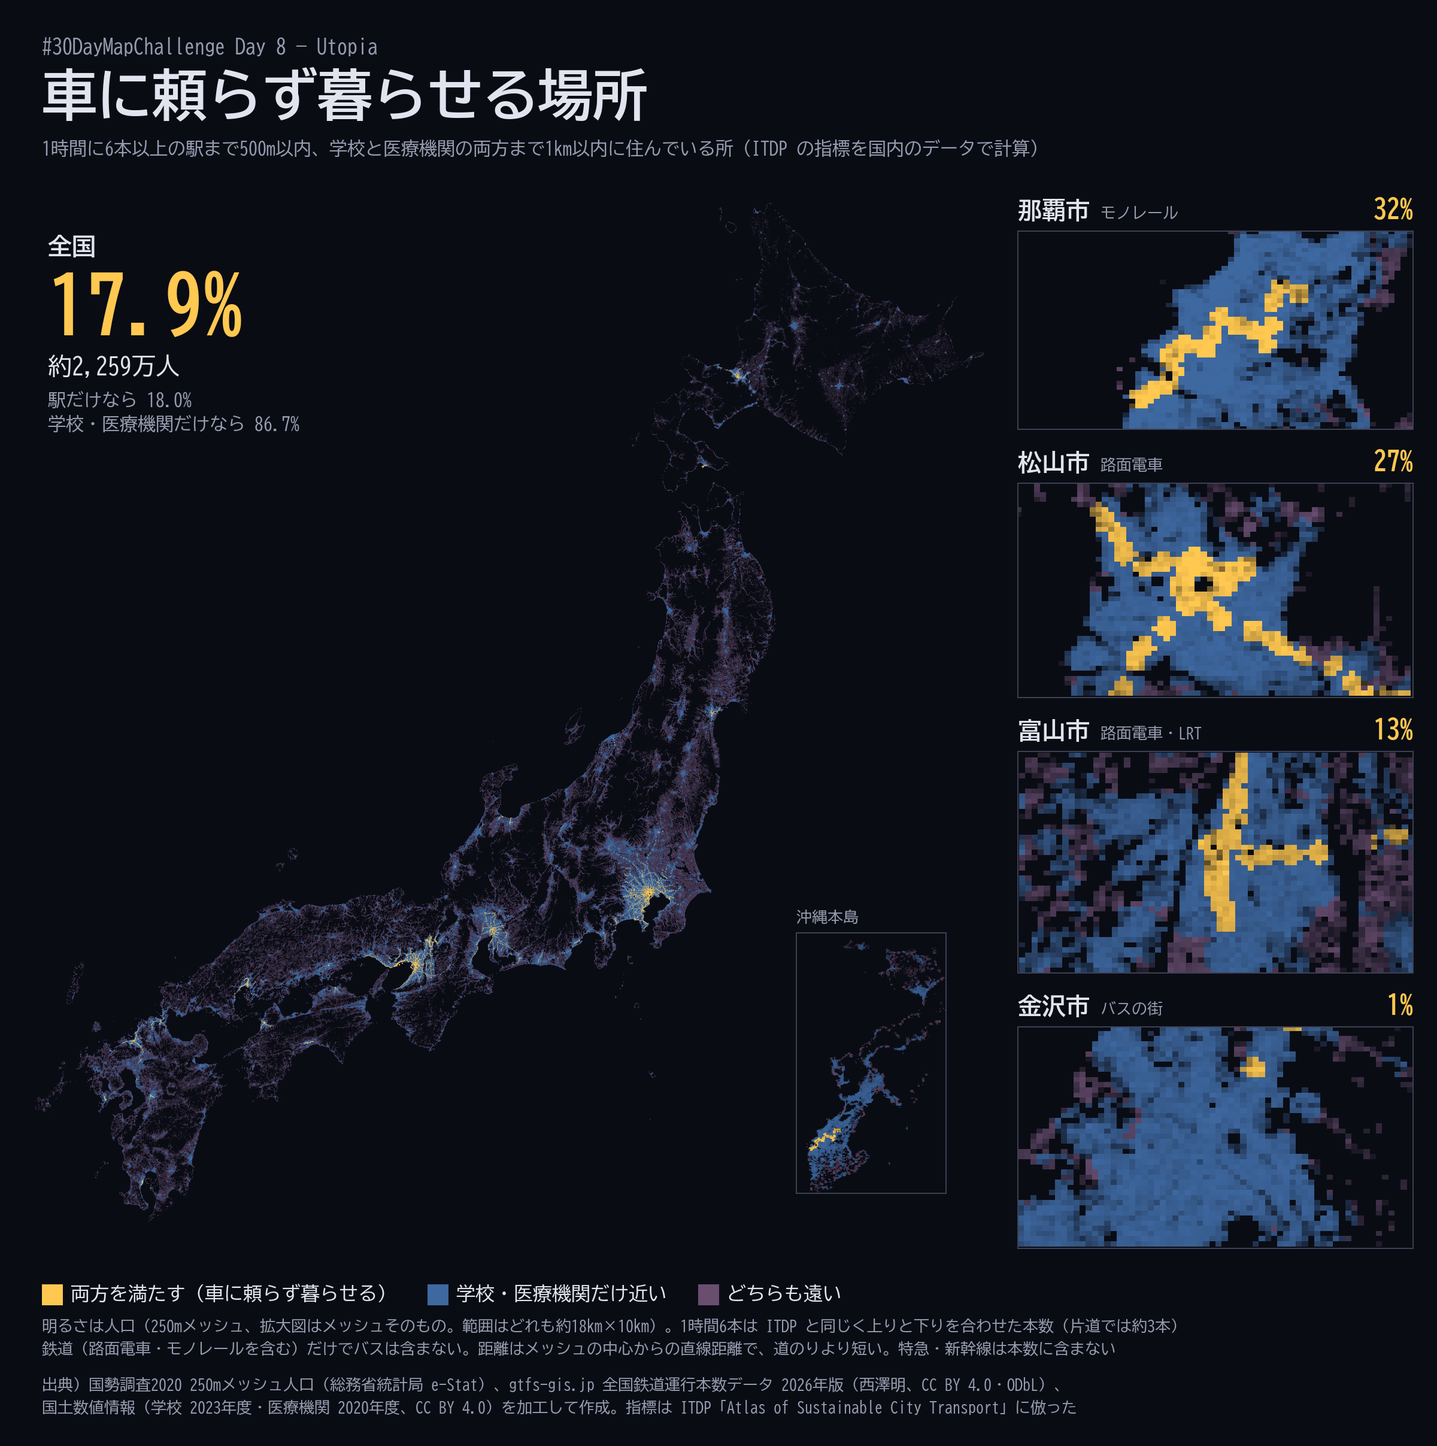
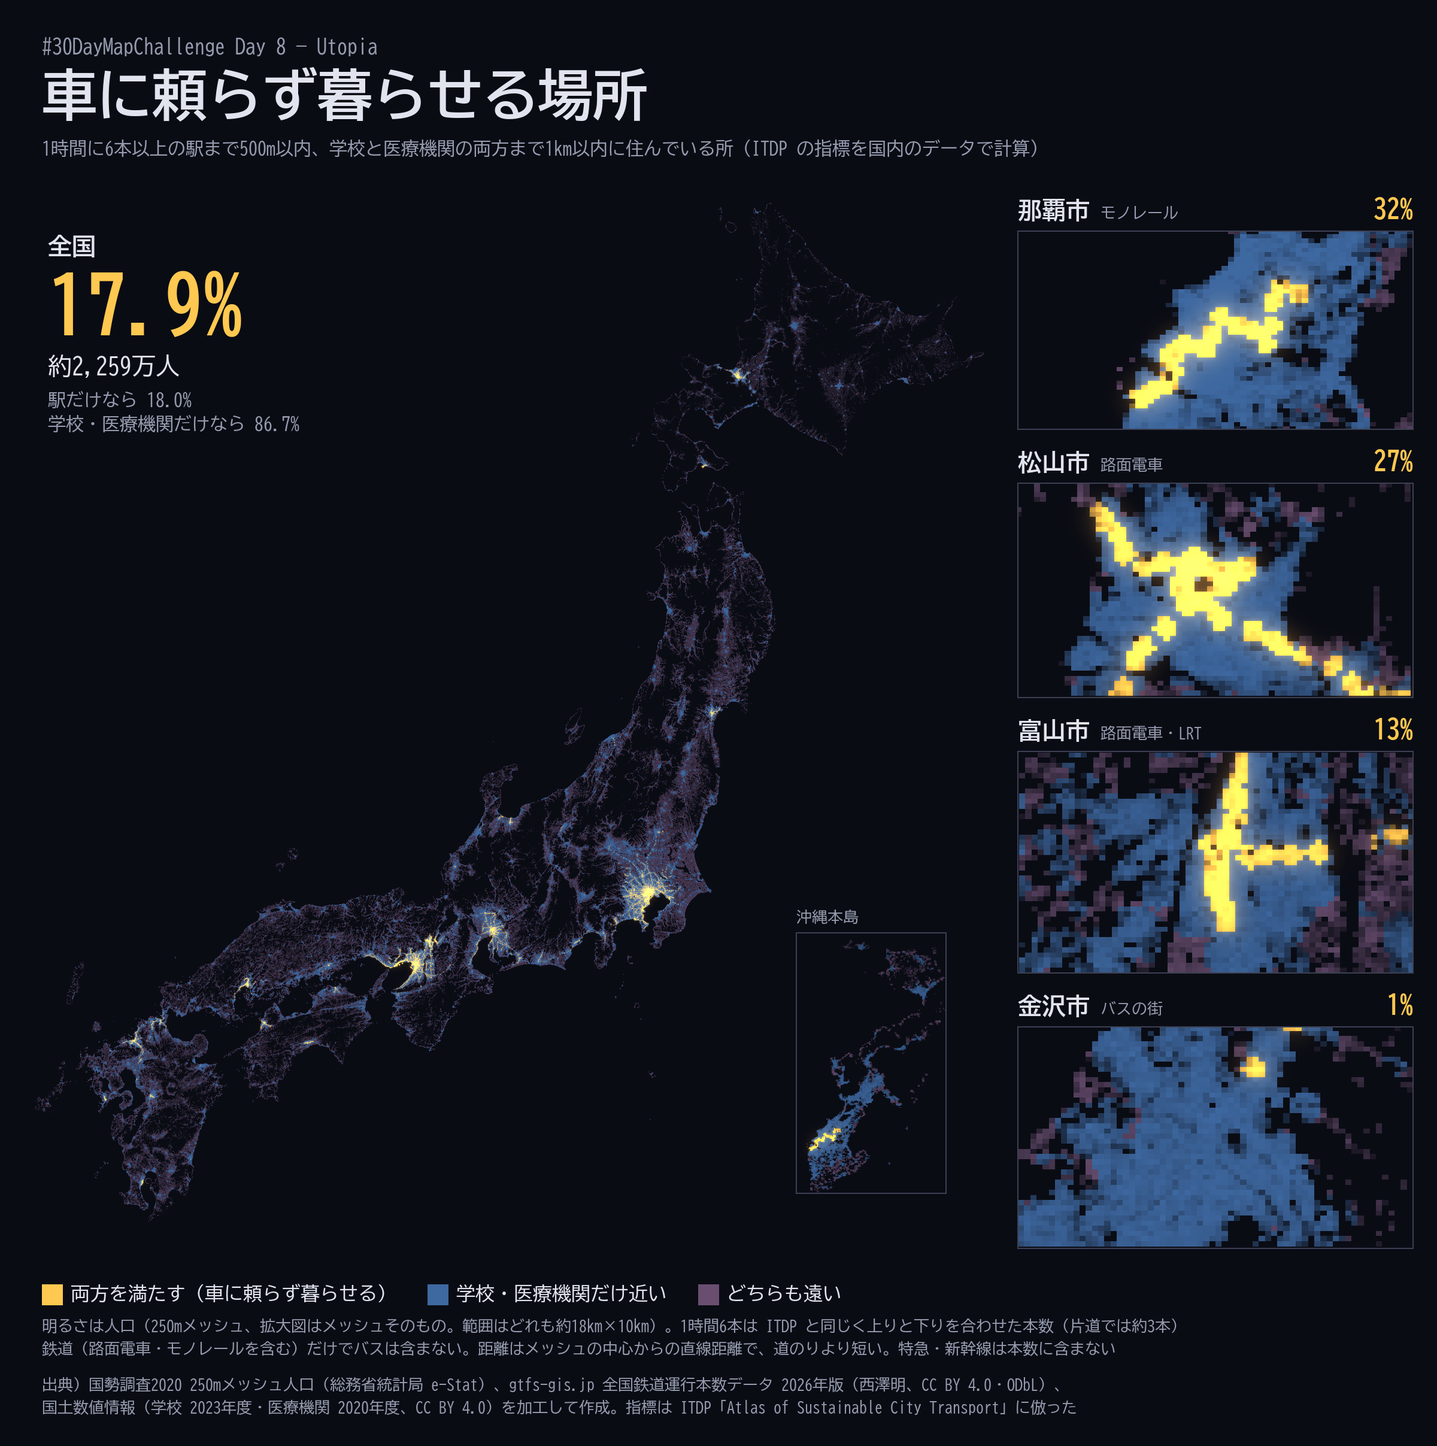
Day 8: 発光と、首都圏・中京圏・近畿圏の図（X に貼る4枚） (#58)
両方を満たす所をぼかして足し、発光させる。描画を maplib.py にまとめ、
regions.py で首都圏・中京圏・近畿圏を250mメッシュのまま塗り、主な市の割合を添える。
高解像度版は日本全域が6倍、圏域が2倍。

Claude-Session: https://claude.ai/code/session_01LQyb2EHdAuq3GUE5kxx5cM

diff --git a/day08-utopia/scripts/carfree/regions.py b/day08-utopia/scripts/carfree/regions.py
@@ -1,0 +1,111 @@
+"""投稿用: 首都圏・中京圏・近畿圏の拡大（250mメッシュをそのまま塗り、主な市の割合を添える）。
+
+使い方: python -I -X utf8 regions.py <data/carfree> <出力フォルダ> [倍率（既定1）]
+"""
+import sys
+from pathlib import Path
+
+import pandas as pd
+from PIL import Image, ImageFont
+
+sys.path.insert(0, str(Path(__file__).parent))
+from maplib import BG, C_BOTH, C_NONE, C_SERV, glow, init, render  # noqa: E402
+from scaledraw import SDraw  # noqa: E402
+
+src = Path(sys.argv[1])
+out = Path(sys.argv[2])
+out.mkdir(parents=True, exist_ok=True)
+S = int(sys.argv[3]) if len(sys.argv) > 3 else 1
+Image.MAX_IMAGE_PIXELS = None
+init(pd.read_parquet(src / "mesh_carfree.parquet"), S)
+city = pd.read_csv(src / "city_carfree.csv")
+pref = pd.read_csv(src / "pref_carfree.csv")
+
+FONT_R = "C:/Windows/Fonts/BIZ-UDGothicR.ttc"
+FONT_B = "C:/Windows/Fonts/BIZ-UDGothicB.ttc"
+
+
+def font(size, bold=False):
+    return ImageFont.truetype(FONT_B if bold else FONT_R, size * S)
+
+
+GOLD, TXT, SUB = (255, 200, 80), (225, 228, 238), (150, 156, 175)
+
+
+def share(df):
+    return (df["both"] * df["pop"]).sum() / df["pop"].sum()
+
+
+def city_share(p, names):
+    if names == "23区":
+        return share(city[(city["pref"] == p) & city["city"].str.endswith("区")])
+    return share(city[(city["pref"] == p) & (city["city"] == names)])
+
+
+# 市の位置はおよその市役所（23区は東京駅）
+REGIONS = [
+    ("shutoken", "首都圏", ["東京都", "神奈川県", "埼玉県", "千葉県"], "1都3県", (138.95, 140.75, 35.05, 36.25), [
+        ("東京都", "23区", "東京23区", 139.767, 35.681), ("神奈川県", "横浜市", "横浜市", 139.638, 35.444),
+        ("神奈川県", "川崎市", "川崎市", 139.703, 35.531), ("埼玉県", "さいたま市", "さいたま市", 139.646, 35.861),
+        ("千葉県", "千葉市", "千葉市", 140.123, 35.607), ("神奈川県", "相模原市", "相模原市", 139.373, 35.571),
+        ("東京都", "八王子市", "八王子市", 139.316, 35.666), ("千葉県", "船橋市", "船橋市", 139.983, 35.695),
+        ("埼玉県", "川越市", "川越市", 139.486, 35.925), ("神奈川県", "横須賀市", "横須賀市", 139.672, 35.281),
+    ]),
+    ("chukyo", "中京圏", ["愛知県", "岐阜県", "三重県"], "愛知・岐阜・三重", (136.40, 137.55, 34.62, 35.50), [
+        ("愛知県", "名古屋市", "名古屋市", 136.907, 35.181), ("岐阜県", "岐阜市", "岐阜市", 136.761, 35.423),
+        ("愛知県", "豊田市", "豊田市", 137.156, 35.083), ("愛知県", "岡崎市", "岡崎市", 137.174, 34.954),
+        ("愛知県", "一宮市", "一宮市", 136.803, 35.304), ("三重県", "四日市市", "四日市市", 136.624, 34.965),
+        ("三重県", "津市", "津市", 136.509, 34.719), ("愛知県", "春日井市", "春日井市", 136.972, 35.248),
+        ("愛知県", "豊橋市", "豊橋市", 137.392, 34.769),
+    ]),
+    ("kinki", "近畿圏", ["大阪府", "京都府", "兵庫県", "奈良県"], "大阪・京都・兵庫・奈良", (134.95, 136.05, 34.33, 35.10), [
+        ("大阪府", "大阪市", "大阪市", 135.502, 34.694), ("京都府", "京都市", "京都市", 135.768, 35.012),
+        ("兵庫県", "神戸市", "神戸市", 135.196, 34.690), ("大阪府", "堺市", "堺市", 135.483, 34.574),
+        ("奈良県", "奈良市", "奈良市", 135.805, 34.685), ("大阪府", "東大阪市", "東大阪市", 135.601, 34.679),
+        ("兵庫県", "西宮市", "西宮市", 135.342, 34.737), ("大阪府", "枚方市", "枚方市", 135.650, 34.814),
+        ("兵庫県", "姫路市", "姫路市", 134.686, 34.815), ("大阪府", "高槻市", "高槻市", 135.617, 34.846),
+    ]),
+]
+
+W, MW, MX = 2400, 2320, 40
+for key, name, prefs, pref_note, (a, b, c, e), cities in REGIONS:
+    arr = render(a, b, c, e, MW * S, 1500)
+    arr = glow(arr, (2, 10), (0.35, 0.5))
+    MH = arr.shape[0] // S
+    MY = 280
+    H = MY + MH + 260
+    img = Image.new("RGB", (W * S, H * S), tuple(BG.astype(int)))
+    d = SDraw(img, S)
+    img.paste(Image.fromarray(arr), (MX * S, MY * S))
+    d.text((70, 50), "#30DayMapChallenge Day 8 — Utopia ／ 車に頼らず暮らせる場所", font=font(32), fill=SUB)
+    d.text((70, 100), name, font=font(84, True), fill=TXT)
+    sh = share(pref[pref["pref"].isin(prefs)])
+    tx = 70 + d.textlength(name, font=font(84, True)) + 36
+    d.text((tx, 128), f"{pref_note}で {sh * 100:.0f}%", font=font(48, True), fill=GOLD)
+    d.text((70, 210), "1時間に6本以上の駅まで500m以内、学校と医療機関の両方まで1km以内に住んでいる所（250mメッシュ）",
+           font=font(30), fill=SUB)
+    k = __import__("math").cos(__import__("math").radians((c + e) / 2))
+    for p_, cname, label, lo, la in cities:
+        if not (a < lo < b and c < la < e):
+            continue
+        x = MX + (lo - a) / (b - a) * MW
+        y = MY + (e - la) / (e - c) * MH
+        v = city_share(p_, cname)
+        d.ellipse([x - 7, y - 7, x + 7, y + 7], fill=(255, 255, 255), outline=(10, 12, 20), width=2)
+        d.text((x + 14, y - 40), label, font=font(34, True), fill=TXT, stroke_width=5, stroke_fill=(10, 12, 20))
+        d.text((x + 14, y - 2), f"{v * 100:.0f}%", font=font(34, True), fill=GOLD, stroke_width=5, stroke_fill=(10, 12, 20))
+    ly = MY + MH + 24
+    lx = 70
+    for col, t in [(C_BOTH, "両方を満たす"), (C_SERV, "学校・医療機関だけ近い"), (C_NONE, "どちらも遠い")]:
+        d.rectangle([lx, ly + 6, lx + 30, ly + 36], fill=tuple(col.astype(int)))
+        d.text((lx + 42, ly + 4), t, font=font(30), fill=TXT)
+        lx += 42 + d.textlength(t, font=font(30)) + 50
+    d.text((lx, ly + 8), "明るさは人口。市の割合は市内に住む人のうち両方を満たす人の割合", font=font(26), fill=SUB)
+    for i, t in enumerate([
+        "鉄道（路面電車・モノレールを含む）だけでバスは含まない。1時間6本は上りと下りを合わせた本数（ITDP に倣う）。距離は直線距離",
+        "出典）国勢調査2020 250mメッシュ人口（総務省統計局 e-Stat）、gtfs-gis.jp 全国鉄道運行本数データ 2026年版（西澤明、CC BY 4.0・ODbL）、",
+        "国土数値情報（学校 2023年度・医療機関 2020年度・行政区域 2026年、CC BY 4.0）を加工して作成",
+    ]):
+        d.text((70, ly + 70 + i * 38), t, font=font(25), fill=SUB)
+    img.save(out / f"region_{key}{'' if S == 1 else f'_x{S}'}.png")
+    print(key, img.size, f"{sh:.3f}")

diff --git a/day08-utopia/scripts/carfree/poster.py b/day08-utopia/scripts/carfree/poster.py
@@ -6,7 +6,6 @@ import json
 import sys
 from pathlib import Path
 
-import numpy as np
 import pandas as pd
 from PIL import Image, ImageFont
 
@@ -29,50 +28,9 @@ def font(size, bold=False):
     return ImageFont.truetype(FONT_B if bold else FONT_R, size * S)
 
 
-BG = np.array([10, 12, 20], float)
-C_BOTH = np.array([255, 200, 80], float)
-C_SERV = np.array([62, 104, 160], float)
-C_NONE = np.array([105, 78, 112], float)
-DLON, DLAT = 1 / 320, 1 / 480
+from maplib import BG, C_BOTH, C_NONE, C_SERV, glow, init, render  # noqa: E402
 
-cat = np.where(m["both"], 2, np.where(m["service"], 1, 0))
-pop = m["pop"].to_numpy().astype(float)
-lon = m["lon"].to_numpy()
-lat = m["lat"].to_numpy()
-
-
-def shade(p_both, p_serv, p_none, ref):
-    tot = p_both + p_serv + p_none
-    with np.errstate(invalid="ignore", divide="ignore"):
-        mix = (C_BOTH * p_both[..., None] + C_SERV * p_serv[..., None] + C_NONE * p_none[..., None]) / tot[..., None]
-    mix = np.nan_to_num(mix)
-    a = np.clip(np.log10(tot + 1) / np.log10(ref), 0, 1) ** 0.9
-    a = np.where(tot > 0, np.maximum(a, 0.18), 0)[..., None]
-    return (BG * (1 - a) + mix * a).clip(0, 255).astype(np.uint8)
-
-
-def render(lon0, lon1, lat0, lat1, w, ref):
-    """経度方向を中央緯度の cos で縮めた正距円筒で描く。1画素に入るメッシュの人口を足す。"""
-    k = np.cos(np.radians((lat0 + lat1) / 2))
-    h = int(round(w * (lat1 - lat0) / ((lon1 - lon0) * k)))
-    sel = (lon > lon0) & (lon < lon1) & (lat > lat0) & (lat < lat1)
-    if (lon1 - lon0) / w < DLON:  # 拡大図: メッシュを矩形で塗る
-        out = np.tile(BG.astype(np.uint8), (h, w, 1))
-        ls, bs, cs, ps = lon[sel], lat[sel], cat[sel], pop[sel]
-        x0 = np.round((ls - DLON / 2 - lon0) / (lon1 - lon0) * w).astype(int)
-        x1 = np.round((ls + DLON / 2 - lon0) / (lon1 - lon0) * w).astype(int)
-        y0 = np.round((lat1 - bs - DLAT / 2) / (lat1 - lat0) * h).astype(int)
-        y1 = np.round((lat1 - bs + DLAT / 2) / (lat1 - lat0) * h).astype(int)
-        z = np.zeros(len(ps))
-        col = shade(np.where(cs == 2, ps, z), np.where(cs == 1, ps, z), np.where(cs == 0, ps, z), ref)
-        for i in range(len(ps)):
-            out[max(y0[i], 0):max(y1[i], 0), max(x0[i], 0):max(x1[i], 0)] = col[i]
-        return out
-    x = ((lon[sel] - lon0) / (lon1 - lon0) * w).astype(int).clip(0, w - 1)
-    y = ((lat1 - lat[sel]) / (lat1 - lat0) * h).astype(int).clip(0, h - 1)
-    idx = y * w + x
-    acc = [np.bincount(idx, weights=np.where(cat[sel] == c, pop[sel], 0), minlength=w * h).reshape(h, w) for c in (2, 1, 0)]
-    return shade(*acc, ref)
+init(m, S)
 
 
 W, H = 2400, 2560
@@ -93,10 +51,12 @@ MX, MY, MW = 40, 330, 1620
 # 1画素にメッシュが入りきらない倍率では人口を足して混ぜる（ref は1画素あたり）。
 # 6倍以上ではメッシュ1つが1.4画素以上になるので、メッシュを四角で塗る（ref は1メッシュあたり）
 main = render(128.4, 146.0, 30.9, 45.6, MW * S, 6000 / S**2 if S < 4 else 1500)
+main = glow(main, (1.5, 6), (0.9, 0.5))
 MH = main.shape[0] // S
 img.paste(Image.fromarray(main), (MX * S, MY * S))
 # 沖縄本島（左上の空いた所に）
 oki = render(127.62, 128.05, 26.08, 26.75, 250 * S, 1500)
+oki = glow(oki, (2, 10), (0.4, 0.5))
 OH, OW = oki.shape[0] // S, oki.shape[1] // S
 OX, OY = MX + MW - 330, MY + MH - OH - 60
 img.paste(Image.fromarray(oki), (OX * S, OY * S))
@@ -132,6 +92,7 @@ IX, IW = 1700, 660
 iy = MY
 for name, tag, sh, (a, b, c_, e) in insets:
     arr = render(a, b, c_, e, IW * S, 800)
+    arr = glow(arr, (4, 20), (0.25, 0.55))
     AH = arr.shape[0] // S
     img.paste(Image.fromarray(arr), (IX * S, (iy + 56) * S))
     d.rectangle([IX - 1, iy + 55, IX + IW, iy + 56 + AH], outline=(60, 64, 82), width=2)

diff --git a/day08-utopia/scripts/carfree/maplib.py b/day08-utopia/scripts/carfree/maplib.py
@@ -1,0 +1,67 @@
+"""250mメッシュの地図を描く共通部分（poster.py・regions.py）。init() でメッシュと倍率を渡す。"""
+import numpy as np
+from PIL import Image, ImageFilter
+
+BG = np.array([10, 12, 20], float)
+C_BOTH = np.array([255, 200, 80], float)
+C_SERV = np.array([62, 104, 160], float)
+C_NONE = np.array([105, 78, 112], float)
+DLON, DLAT = 1 / 320, 1 / 480
+
+cat = pop = lon = lat = None
+S = 1
+
+
+def init(m, s):
+    global cat, pop, lon, lat, S
+    cat = np.where(m["both"], 2, np.where(m["service"], 1, 0))
+    pop = m["pop"].to_numpy().astype(float)
+    lon = m["lon"].to_numpy()
+    lat = m["lat"].to_numpy()
+    S = s
+
+
+def shade(p_both, p_serv, p_none, ref):
+    tot = p_both + p_serv + p_none
+    with np.errstate(invalid="ignore", divide="ignore"):
+        mix = (C_BOTH * p_both[..., None] + C_SERV * p_serv[..., None] + C_NONE * p_none[..., None]) / tot[..., None]
+    mix = np.nan_to_num(mix)
+    a = np.clip(np.log10(tot + 1) / np.log10(ref), 0, 1) ** 0.9
+    a = np.where(tot > 0, np.maximum(a, 0.18), 0)[..., None]
+    return (BG * (1 - a) + mix * a).clip(0, 255).astype(np.uint8)
+
+
+def render(lon0, lon1, lat0, lat1, w, ref):
+    """経度方向を中央緯度の cos で縮めた正距円筒で描く。1画素に入るメッシュの人口を足す。"""
+    k = np.cos(np.radians((lat0 + lat1) / 2))
+    h = int(round(w * (lat1 - lat0) / ((lon1 - lon0) * k)))
+    sel = (lon > lon0) & (lon < lon1) & (lat > lat0) & (lat < lat1)
+    if (lon1 - lon0) / w < DLON:  # 拡大図: メッシュを矩形で塗る
+        out = np.tile(BG.astype(np.uint8), (h, w, 1))
+        ls, bs, cs, ps = lon[sel], lat[sel], cat[sel], pop[sel]
+        x0 = np.round((ls - DLON / 2 - lon0) / (lon1 - lon0) * w).astype(int)
+        x1 = np.round((ls + DLON / 2 - lon0) / (lon1 - lon0) * w).astype(int)
+        y0 = np.round((lat1 - bs - DLAT / 2) / (lat1 - lat0) * h).astype(int)
+        y1 = np.round((lat1 - bs + DLAT / 2) / (lat1 - lat0) * h).astype(int)
+        z = np.zeros(len(ps))
+        col = shade(np.where(cs == 2, ps, z), np.where(cs == 1, ps, z), np.where(cs == 0, ps, z), ref)
+        for i in range(len(ps)):
+            out[max(y0[i], 0):max(y1[i], 0), max(x0[i], 0):max(x1[i], 0)] = col[i]
+        return out
+    x = ((lon[sel] - lon0) / (lon1 - lon0) * w).astype(int).clip(0, w - 1)
+    y = ((lat1 - lat[sel]) / (lat1 - lat0) * h).astype(int).clip(0, h - 1)
+    idx = y * w + x
+    acc = [np.bincount(idx, weights=np.where(cat[sel] == c, pop[sel], 0), minlength=w * h).reshape(h, w) for c in (2, 1, 0)]
+    return shade(*acc, ref)
+
+
+def glow(arr, radii, gains):
+    """金色の所（両方を満たす所）だけをぼかして足し、光らせる。radii は等倍のときの画素数。"""
+    rgb = arr.astype(float)
+    mask = np.clip((rgb[..., 0] - rgb[..., 2]) / (C_BOTH[0] - C_BOTH[2]), 0, 1)
+    mk = Image.fromarray((mask * 255).astype(np.uint8))
+    add = np.zeros_like(mask)
+    for r, g in zip(radii, gains):
+        add += g * np.asarray(mk.filter(ImageFilter.GaussianBlur(r * S)), float) / 255
+    out = rgb + np.array([255, 170, 60], float) * add[..., None]
+    return out.clip(0, 255).astype(np.uint8)

diff --git a/day08-utopia/scripts/carfree/scaledraw.py b/day08-utopia/scripts/carfree/scaledraw.py
@@ -7,8 +7,12 @@ class SDraw:
         self.d = ImageDraw.Draw(img)
         self.s = s
 
-    def text(self, xy, t, font, fill):
-        self.d.text((xy[0] * self.s, xy[1] * self.s), t, font=font, fill=fill)
+    def text(self, xy, t, font, fill, stroke_width=0, stroke_fill=None):
+        self.d.text((xy[0] * self.s, xy[1] * self.s), t, font=font, fill=fill,
+                    stroke_width=stroke_width * self.s, stroke_fill=stroke_fill)
+
+    def ellipse(self, box, fill=None, outline=None, width=1):
+        self.d.ellipse([v * self.s for v in box], fill=fill, outline=outline, width=width * self.s)
 
     def rectangle(self, box, fill=None, outline=None, width=1):
         self.d.rectangle([v * self.s for v in box], fill=fill, outline=outline, width=width * self.s)

diff --git a/day08-utopia/README.md b/day08-utopia/README.md
@@ -28,7 +28,17 @@
 
 両方を満たすメッシュに住む人を「車に頼らず暮らせる」とし、その人数の割合を全国・都道府県・市区町村で出す。ITDP の残りの指標（車の入らない場所、街区の細かさ、自転車道など）は、「車なしで暮らせるか」との関係が間接的なのと、OSM の描き込みの差が出やすいので使わない。
 
-![車に頼らず暮らせる場所](carfree/day08-carfree-map.png)
+X に貼る4枚（日本全域・首都圏・中京圏・近畿圏）。両方を満たす所は金色で、ぼかした光を重ねて発光させている。
+
+![車に頼らず暮らせる場所（日本全域）](carfree/day08-carfree-map.png)
+
+![首都圏](carfree/day08-carfree-shutoken.png)
+
+![中京圏](carfree/day08-carfree-chukyo.png)
+
+![近畿圏](carfree/day08-carfree-kinki.png)
+
+市ごとの順位（政令指定都市・中核市・三大都市圏の外の市）:
 
 ![車に頼らず暮らせる人の割合（市ごと）](carfree/day08-carfree-cities.png)
 
@@ -42,7 +52,9 @@
 - 三大都市圏の外で、政令指定都市・中核市以外の人口10万人以上の市（80市）: 上位は大野城市31%、廿日市市30%、筑紫野市29%。44市が0%
 - 東京23区は52%（区ごとでは千代田区97%、新宿区84%、品川区82%、荒川区80%）
 
-高解像度版: [全国と地方の4市（14400×14478px、約7.8MB）](carfree/day08-carfree-map-hires.png)は、250mメッシュ1つが約1.7×1.4画素になる大きさで、市区町村まで拡大してもメッシュの粒が見える。[市ごとの順位（4800px 幅）](carfree/day08-carfree-cities-hires.png)。
+高解像度版: [日本全域（14400×14478px、約10MB）](carfree/day08-carfree-map-hires.png)は、250mメッシュ1つが約1.7×1.4画素になる大きさで、市区町村まで拡大してもメッシュの粒が見える。[首都圏](carfree/day08-carfree-shutoken-hires.png)・[中京圏](carfree/day08-carfree-chukyo-hires.png)・[近畿圏](carfree/day08-carfree-kinki-hires.png)（4800px 幅、メッシュ1つが約7画素）、[市ごとの順位](carfree/day08-carfree-cities-hires.png)（4800px 幅）。
+
+圏域の割合（両方を満たす人）: 首都圏（1都3県）29%、近畿圏（大阪・京都・兵庫・奈良）32%、中京圏（愛知・岐阜・三重）16%。
 
 数字は `carfree/city_carfree.csv`（市区町村。政令指定都市は市でまとめ、東京23区は区ごと）と `carfree/pref_carfree.csv`（都道府県）。`transit` は駅の条件、`service` は学校・医療機関の条件、`both` は両方を満たす人の割合。
 
@@ -77,7 +89,7 @@
 ## 使用する技術
 
 - Python（GeoPandas・pyogrio・SciPy の cKDTree で最も近い駅・施設までの距離を出す。緯度経度を3次元の単位ベクトルにし、弦の長さから大圏距離に直す）
-- 画像は Pillow で描く（等倍・2倍の全国図は1画素に入るメッシュの人口を色ごとに足して混ぜる。6倍の全国図と拡大図はメッシュをそのまま四角で塗る）。3つ目の引数で倍率を指定する（座標はそのままで文字・線・地図を描き直す。`scripts/carfree/scaledraw.py`）。フォントは BIZ UDゴシック
+- 画像は Pillow で描く（等倍・2倍の全国図は1画素に入るメッシュの人口を色ごとに足して混ぜる。6倍の全国図と拡大図はメッシュをそのまま四角で塗る）。3つ目の引数で倍率を指定する（座標はそのままで文字・線・地図を描き直す。`scripts/carfree/scaledraw.py`）。発光は、金色の所（赤と青の差で取り出す）を2つの半径でぼかして足す（`scripts/carfree/maplib.py` の `glow`）。圏域の図の市の位置は、およその市役所（東京23区は東京駅）。フォントは BIZ UDゴシック
 
 ## 作り方
 
@@ -93,6 +105,8 @@ python -I -X utf8 scripts/carfree/poster.py data/carfree output/carfree/poster.p
 python -I -X utf8 scripts/carfree/ranking.py data/carfree output/carfree/ranking.png
 python -I -X utf8 scripts/carfree/poster.py data/carfree output/carfree/poster_x6.png 6    # 高解像度版（全国の図もメッシュを四角で塗る）
 python -I -X utf8 scripts/carfree/ranking.py data/carfree output/carfree/ranking_x2.png 2
+python -I -X utf8 scripts/carfree/regions.py data/carfree output/carfree      # 首都圏・中京圏・近畿圏（region_*.png）
+python -I -X utf8 scripts/carfree/regions.py data/carfree output/carfree 2    # 同じく2倍（region_*_x2.png）
 ```
 
 ## 投稿文の下書き
@@ -113,13 +127,13 @@ python -I -X utf8 scripts/carfree/ranking.py data/carfree output/carfree/ranking
 制作に生成AI（Claude Code）を使用（データの集計とコードの作成）
 ```
 
-X の文字数で270（日本語2で数えた）。画像は `carfree/day08-carfree-map.png`（全国と地方の4市）と `carfree/day08-carfree-cities.png`（市ごとの順位）の2枚。どちらも画面内に出典あり。
+X の文字数で270（日本語2で数えた）。画像は4枚: `carfree/day08-carfree-map.png`（日本全域と地方の4市）、`day08-carfree-shutoken.png`（首都圏）、`day08-carfree-chukyo.png`（中京圏）、`day08-carfree-kinki.png`（近畿圏）。どれも画面内に出典あり。
 
 ## 状況
 
 - [x] データ準備
 - [x] 集計（全国・都道府県・市区町村）
-- [x] 投稿用の画像（2枚）
+- [x] 投稿用の画像（4枚＋市ごとの順位）
 - [ ] 投稿（#30DayMapChallenge）
 - [ ] 海外の都市との比較（同じ定義で。人口は GHSL、時刻表は Mobility Database の GTFS を想定）
 
